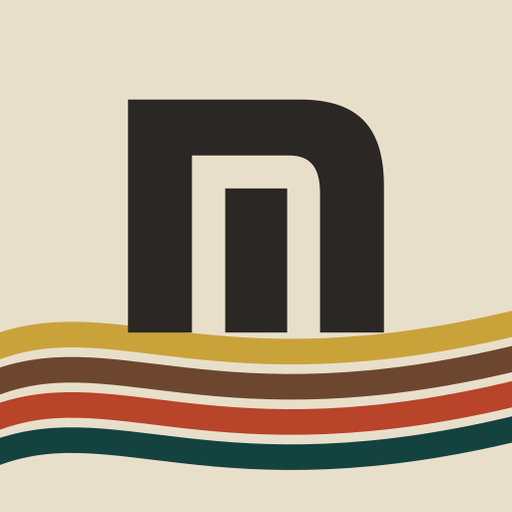
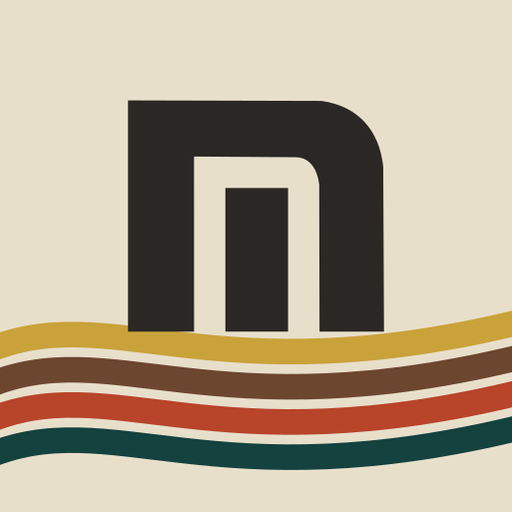
feat(brand): adopt the mm coffee co wordmark
The name the studio goes by is now MM Coffee Co, and the mark closes with
a heart rather than a full stop.

The outlines move to src/lib/logo.ts and everything reads from there. Four
things draw this mark — the component, the icon set, the share image and
the reference SVG — and each used to hold its own copy in its own
coordinate space. That is how og.png went on drawing a full stop for two
releases after the wordmark dropped it. The lockup, wordmark and mark
variants are now viewBox crops of one drawing, so a glyph change reaches
all three without being restated.

Also from the supplied artwork: three degenerate 1-unit slivers left over
from the pathfinder are dropped, and the ribbon takes its colour from the
palette tokens rather than the authored hexes, which sat a few points off
every one of them.

src/assets/logo.svg is removed rather than updated. Nothing imported it,
so a fifth copy could only go stale.

diff --git a/src/lib/logo.ts b/src/lib/logo.ts
@@ -1,0 +1,75 @@
+/**
+ * The mm.coffee wordmark, outlined from R41 Stop.
+ *
+ * One definition, four consumers: the Logo component, the committed reference
+ * SVG, the icon set and the share image. They each used to keep their own copy,
+ * which is how `og.png` kept drawing a full stop for two releases after the
+ * wordmark dropped it.
+ *
+ * Every coordinate is in the lockup's space (0 0 1375.02 292.6). Consumers crop
+ * with a `viewBox` or translate into their own box — nothing restates a path.
+ *
+ * The build scripts are `.mjs` and import this directly; Node strips the types
+ * at load. Keep the syntax erasable (no enums, no namespaces) or they break.
+ */
+
+/** The first `m` — stem plus its solid counter block. Also the icon glyph. */
+const M1 = [
+  'M115.88,199.93c-1.07-8.71-5.25-16.51-14.23-16.57l-61.64-.42.03,106.08-40.02-.02v-140.08s117.16.31,117.16.31c22.17,3.08,35.12,17.69,37.49,39.8l.47,99.97h-39.08s-.17-89.07-.17-89.07Z',
+  'M59.02,202h38v87h-38Z',
+]
+
+/** The second `m`, same construction shifted one advance right. */
+const M2 = [
+  'M283.88,199.93c-1.07-8.71-5.25-16.51-14.23-16.57l-61.64-.42.03,106.08-40.02-.02v-140.08s117.16.31,117.16.31c22.17,3.08,35.12,17.69,37.49,39.8l.47,99.97h-39.08s-.17-89.07-.17-89.07Z',
+  'M227.02,202h38v87h-38Z',
+]
+
+/** Both `m`s. The wordmark's monogram, and the mark variant on its own. */
+export const MONOGRAM = [...M1, ...M2]
+
+/** `coffee co`, and the heart that closes the name. */
+export const NAME = [
+  'M445.05,254.54l21.97.46v34.1s-30.51-.55-30.51-.55c-22.38-2.92-42.81-12.86-54.61-32.51-13.76-22.89-13.58-52.75.78-75.31,13.99-21.99,38.71-31.87,63.81-32.29l20.55-.35v34.89s-21.38.52-21.38.52c-10.39,1.54-20.14,5.96-25.61,13.41-6.59,8.96-8.09,19.59-6.17,30.12,2.83,15.46,15.16,25.31,31.18,27.5Z',
+  'M615.75,218.62c0,40.86-33.12,73.99-73.99,73.99s-73.99-33.12-73.99-73.99,33.12-73.99,73.99-73.99,73.99,33.12,73.99,73.99ZM568.21,243.61c7.52-14.06,7.61-42.85-4.42-55.89-11.49-12.45-35.44-12.52-45.69,2.27-10.8,15.59-10.49,37.75-2.37,53.84,5.36,10.62,15.66,14.32,26.2,14.46,11.16.15,20.76-4.36,26.28-14.68Z',
+  'M715.92,201.98L716.04,236.01L663.04,236L662.89,289.84L624.01,290.01L624,147.98L717.01,147.99L717.03,183L663.04,182.99L663.04,202.01Z',
+  'M822.92,201.98L823.04,236.01L770.04,236L769.89,289.84L731.01,290.01L731,147.98L824.01,147.99L824.03,183L770.04,182.99L770.04,202.01Z',
+  'M932.04,235.95L877.04,236L877.05,255.01L933.02,255L933.02,288.89L877.49,289.51L838.01,290.02L838,147.98L933.01,147.99L933.03,183.01L877.05,182.99L877.05,202.01L932.02,201.99Z',
+  'M1041.04,235.95L986.04,236L986.05,255.01L1042.02,255L1042.02,288.89L986.49,289.51L947.01,290.02L947,147.98L1042.01,147.99L1042.03,183.01L986.05,182.99L986.05,202.01L1041.02,201.99Z',
+  'M1165.05,254.54l21.97.46v34.1s-30.51-.55-30.51-.55c-22.38-2.92-42.81-12.86-54.61-32.51-13.76-22.89-13.58-52.75.78-75.31,13.99-21.99,38.71-31.87,63.81-32.29l20.55-.35v34.89s-21.38.52-21.38.52c-10.39,1.54-20.14,5.96-25.61,13.41-6.59,8.96-8.09,19.59-6.17,30.12,2.83,15.46,15.16,25.31,31.18,27.5Z',
+  'M1335.75,218.62c0,40.86-33.12,73.99-73.99,73.99s-73.99-33.12-73.99-73.99,33.12-73.99,73.99-73.99,73.99,33.12,73.99,73.99ZM1288.21,243.61c7.52-14.06,7.61-42.85-4.42-55.89-11.49-12.45-35.44-12.52-45.69,2.27-10.8,15.59-10.49,37.75-2.37,53.84,5.36,10.62,15.66,14.32,26.2,14.46,11.16.15,20.76-4.36,26.28-14.68Z',
+  'M1375.02,265v5c-3.84,9.53-11.58,16.89-20.79,22.57-7.59-5.66-14.3-11.49-18.25-19.41-2.87-5.75-1.42-12.31,3.37-15.41,5.43-3.51,11.66-2,15.12,3.43,3.41-4.06,7.73-6.15,12.39-4.8,3.98,1.15,6.71,4.23,8.17,8.61Z',
+]
+
+/**
+ * The ribbon, in paint order. Named by palette token rather than by hex: the
+ * component resolves each to `var(--color-…)` and the build scripts read the
+ * value out of globals.css, so the logo can never hold a colour the site
+ * doesn't. The authored art was a few points off every token.
+ */
+export const RIBBON: readonly { token: 'red' | 'blue' | 'gold'; d: string }[] = [
+  { token: 'red', d: 'M370.92,1c4.85,13.36,13.41,24.81,26.56,31.57,9.55,4.91,19.84,8.88,30.88,9.02l58.35.77c16.53.22,32.54,6.39,44.91,16.81,24,20.22,25.75,49.61,25.37,79.81h-26.92c-1.35-37.55-19.83-62.32-57.39-68.8l-70.28-.64c-11.9-.11-22.75-3.14-33.83-7.23-25.99-9.59-45.4-31.48-52.91-58.01-.53-1.88-.45-3.19.36-4.31h1l53.9,1Z' },
+  { token: 'blue', d: 'M456.01,1l44.01.05c5.5,1.57,11.34.82,16.94.87,43.7.45,72.78,32.71,77.3,76.92l.84,60.91-27.02.26-.41-39.78c-3.04-42.73-32.36-65.67-74.13-68.8-8.23-.62-15.84.03-24.04.04l-32.02.05c-22.64-1.66-46.57-9.28-51.46-31.53h1l68.99,1Z' },
+  { token: 'gold', d: 'M493.14,140.88c-.49-10.05-5.53-18.89-14.17-23.82-14.16-8.08-45.99-7.43-64.9-6.3-35.13,2.11-67.96-6.74-85.15-38.72l-16.87-36.42c17.87,27.35,48.23,43.06,80.31,44.9l43.48-.02c17.91-1.2,35.72-.63,51.91,7.9,18.74,9.88,29.1,30.12,30.08,51.01-8.65,1.3-16.33,2.07-24.69,1.46Z' },
+]
+
+/**
+ * Tight ink bounds per variant. The wordmark and mark are crops of the same
+ * artwork, so dropping the ribbon is a `viewBox` change rather than a second
+ * set of paths in a second coordinate space.
+ */
+export const VIEW_BOX = {
+  lockup: '0 0 1375.02 292.6',
+  wordmark: '0 144.63 1375.02 147.98',
+  mark: '0 148.92 323.14 140.1',
+} as const
+
+/** A single `m` with its bounds, so the icons can place it without a second
+ *  coordinate space of their own. */
+export const M_GLYPH = {
+  paths: M1,
+  x: 0.02,
+  y: 148.92,
+  width: 155.12,
+  height: 140.1,
+} as const

diff --git a/CLAUDE.md b/CLAUDE.md
@@ -35,8 +35,16 @@ makes **no third-party font requests**, and it should stay that way.
 - `font-display` → Anton (headlines, uppercase)
 - `font-mono` → JetBrains Mono (body copy, labels, the status strip)
 
-The wordmark is R41 Stop, but shipped as an **outlined SVG** (`src/assets/logo.svg`),
-not a webfont. Never reintroduce a font CDN to render it.
+The wordmark is R41 Stop, but shipped as **outlined paths**, not a webfont. Never
+reintroduce a font CDN to render it.
+
+Those paths live in **`src/lib/logo.ts`** and nowhere else. Four things draw the
+mark — the `Logo` component, the icon set, the share image, and whatever comes
+next — and they all import from there. They used to keep private copies, which is
+how `og.png` went on drawing a full stop for two releases after the wordmark
+dropped it. The `lockup` / `wordmark` / `mark` variants are `viewBox` crops of one
+artwork, so there is no second coordinate space to keep in step. Re-run
+`pnpm build:icons` and `pnpm build:og` after any change to it.
 
 ## Design
 
@@ -52,6 +60,10 @@ type, rules, and fills — never small text.
 
 - `astro check` needs **TypeScript 6.x**. TypeScript 7's native compiler doesn't yet
   expose the programmatic API the checker relies on, so don't bump it to 7.
+- `build:icons` and `build:og` import `src/lib/logo.ts` directly and rely on Node's
+  built-in type stripping, so they need **Node 23.6+** — looser than `engines.node`,
+  which stays at 22.12 because it describes the app, and neither script runs at
+  deploy time. Keep the syntax in `logo.ts` erasable (no enums, no namespaces).
 - The `Font` component is imported from `astro:assets` (not `astro:fonts`, which was
   the Astro 5 experimental name).
 - Astro 7 keeps a **persistent background dev server** and reuses it across `pnpm dev`

diff --git a/TODO.md b/TODO.md
@@ -10,9 +10,11 @@ undecided — think before doing.
 - [x] Remove the period — dropped from the lockup and wordmark. The `mark`
       variant keeps it: at favicon size the dot is a distinguishing feature, and
       removing it means regenerating the committed icon PNGs
-- [ ] Maybe add "Co" at the end — **not done.** Adding a word to the wordmark
-      changes the name the studio goes by, which isn't a call to make on someone
-      else's behalf. Mechanically easy whenever you decide
+- [x] Maybe add "Co" at the end — done, and the name the studio goes by is now
+      **MM Coffee Co**. New artwork also swaps the full stop for a heart. The
+      outlines now live in `src/lib/logo.ts` and the three variants are `viewBox`
+      crops of one drawing, so the component, the icons and the share image can't
+      drift apart the way they did over the full stop
 
 ## Navigation & header
 
